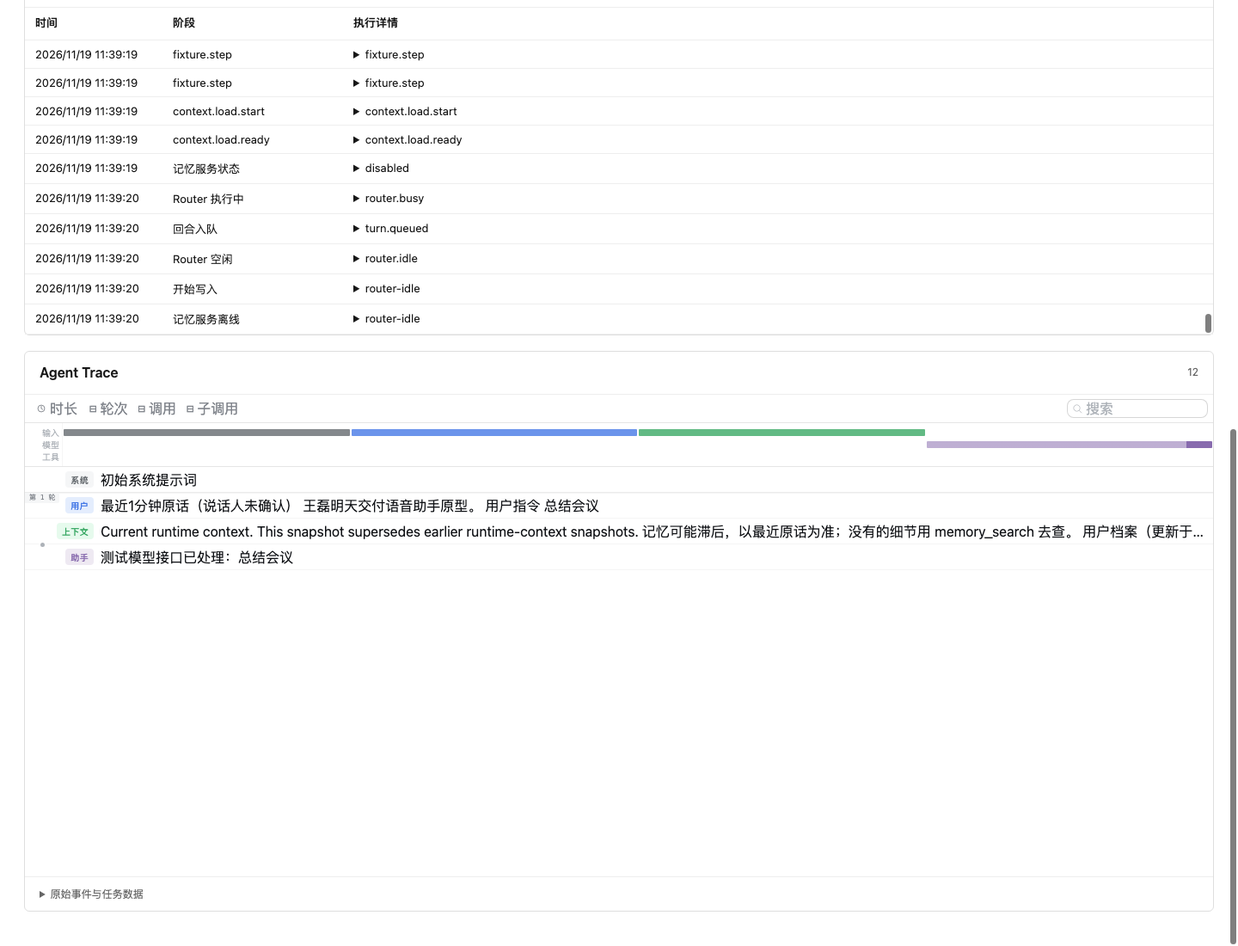
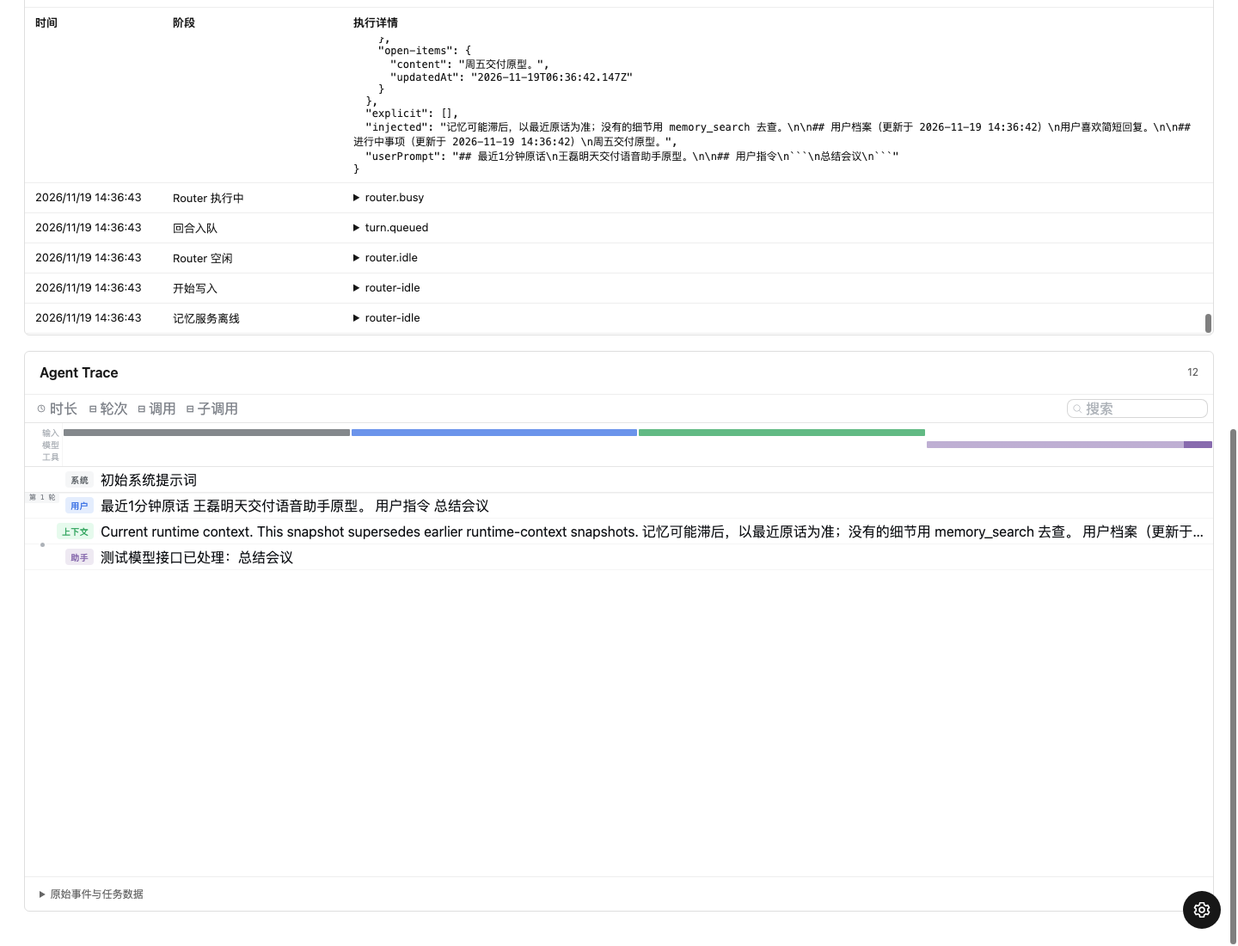
把设置收进右下角，并记下 Context 实际读写的正文。
LLM、Embedding、火山和声纹从交互区挪进设置；声纹列表认火山返回的 SpeakID。Context 轨迹保存注入与写入原文，面板先隐藏。

diff --git a/web/index.html b/web/index.html
@@ -13,28 +13,83 @@
   <script src="dsh-views.js" defer></script>
   <script src="audio-capture.js" defer></script>
   <script src="app.js" defer></script>
+  <script src="voiceprints.js" defer></script>
 </head>
 <body>
   <main class="workspace">
     <div id="notice" class="notice" role="status" aria-live="polite" hidden></div>
     <dialog id="model-settings" class="settings-dialog" aria-labelledby="settings-title">
       <header class="settings-header"><h2 id="settings-title">设置</h2><button id="close-settings" class="text-button" type="button" aria-label="关闭设置">关闭</button></header>
-      <div class="settings-section-title"><h3>模型配置</h3><span id="config-status" class="muted">未配置</span></div>
-      <p class="protocol-note">协议：Responses API · POST /responses</p>
-      <form id="model-form" class="settings-body">
-        <fieldset><legend>Router</legend><div class="config-grid">
-          <label>Base URL<input id="router-base-url" type="url" placeholder="http://127.0.0.1:8000/v1" required></label>
-          <label>模型名称<input id="router-model" type="text" placeholder="模型 ID" required></label>
-          <label>API Key<input id="router-api-key" type="password" autocomplete="new-password" placeholder="无密钥可留空"></label>
-        </div></fieldset>
-        <div class="submit-row"><span class="field-help">密钥不会回填；留空保留已有密钥。保存配置不代表连接已验证。</span><button id="save-model" class="secondary-button" type="submit">保存配置</button></div>
-        <p id="config-feedback" class="field-help" role="status"></p>
-      </form>
+      <nav class="settings-nav" aria-label="设置分类">
+        <button type="button" data-settings-panel="llm" aria-current="true">LLM</button>
+        <button type="button" data-settings-panel="embedding">Embedding</button>
+        <button type="button" data-settings-panel="volcano">火山</button>
+        <button type="button" data-settings-panel="voiceprint">声纹</button>
+      </nav>
+      <section id="settings-llm">
+        <div class="settings-section-title"><h3>LLM</h3><span id="config-status" class="muted">未配置</span></div>
+        <p class="protocol-note">协议：Responses API · POST /responses</p>
+        <form id="model-form" class="settings-body">
+          <fieldset><legend>对话模型</legend><div class="config-grid">
+            <label>Base URL<input id="router-base-url" type="url" placeholder="http://127.0.0.1:8000/v1" required></label>
+            <label>模型名称<input id="router-model" type="text" placeholder="模型 ID" required></label>
+            <label>API Key<input id="router-api-key" type="password" autocomplete="new-password" placeholder="无密钥可留空"></label>
+          </div></fieldset>
+          <div class="submit-row"><span class="field-help">密钥不会回填；留空保留已有密钥。保存配置不代表连接已验证。</span><button id="save-model" class="secondary-button" type="submit">保存配置</button></div>
+          <p id="config-feedback" class="field-help" role="status"></p>
+        </form>
+        <div class="settings-section-title"><h3>记忆模型</h3></div>
+        <dl class="settings-facts">
+          <div><dt>模型</dt><dd id="memory-model">—</dd></div>
+          <div><dt>地址</dt><dd id="memory-url">—</dd></div>
+        </dl>
+        <p class="protocol-note">记忆模型写在 .env，修改后需要重启。</p>
+      </section>
+      <section id="settings-embedding" hidden>
+        <div class="settings-section-title"><h3>Embedding</h3></div>
+        <dl class="settings-facts">
+          <div><dt>方式</dt><dd id="embedding-mode">—</dd></div>
+          <div><dt>模型</dt><dd id="embedding-model">—</dd></div>
+          <div><dt>地址</dt><dd id="embedding-url">—</dd></div>
+        </dl>
+        <p class="protocol-note">Embedding 写在 .env，修改后需要重启。密钥只显示是否已填写。</p>
+      </section>
+      <section id="settings-volcano" hidden>
+        <div class="settings-section-title"><h3>火山</h3></div>
+        <dl class="settings-facts">
+          <div><dt>状态</dt><dd id="volcano-status">—</dd></div>
+          <div><dt>资源</dt><dd id="volcano-resource">—</dd></div>
+          <div><dt>地址</dt><dd id="volcano-endpoint">—</dd></div>
+          <div><dt>说话人分离</dt><dd>开启</dd></div>
+        </dl>
+        <p class="protocol-note">火山语音写在 .env，修改后需要重启。密钥不会显示在这里。</p>
+      </section>
+      <section id="settings-voiceprint" hidden>
+        <div class="settings-section-title"><h3>声纹</h3><span id="voiceprint-count" class="muted">0 / 50</span></div>
+        <p id="voiceprint-status" class="protocol-note" role="status"></p>
+        <div class="settings-body">
+          <ul id="voiceprint-list" class="voiceprint-list"></ul>
+          <form id="voiceprint-form" class="voiceprint-form">
+            <label>名称<input id="voiceprint-name" type="text" maxlength="32" required placeholder="例如：张三"></label>
+            <div id="voiceprint-local" class="field-help" hidden>当前是本机访问。请填写一条火山引擎能够下载的公网音频 URL，时长 5–30 秒，wav、pcm 或 mp3。</div>
+            <div id="voiceprint-capture">
+              <div class="voiceprint-actions">
+                <button id="voiceprint-record" type="button">开始录音</button>
+                <label class="file-button">上传音频<input id="voiceprint-file" type="file" accept=".wav,.pcm,.mp3,audio/wav,audio/mpeg,audio/mp3" hidden></label>
+                <span id="voiceprint-clock" class="muted">未录音</span>
+              </div>
+              <p class="field-help">录音或上传 5–30 秒清晰人声。pcm 按 16 kHz、16-bit、单声道计算。</p>
+            </div>
+            <label>公网音频 URL<input id="voiceprint-url" type="url" placeholder="https://example.com/voice.wav"></label>
+            <button id="voiceprint-submit" class="primary-button" type="submit">注册</button>
+          </form>
+        </div>
+      </section>
     </dialog>
     <div class="lab-grid">
-      <section class="panel output-panel" aria-label="输出"><div class="screen"><div class="panel-heading output-status system-bar"><time id="output-date" class="output-date">--/-- 周-</time><span class="system-right"><time id="output-title" class="output-clock">--:--</time><span class="output-battery" title="电量（模拟）"><svg class="battery-icon" viewBox="0 0 28 14" aria-hidden="true" focusable="false"><rect x="0.75" y="0.75" width="22.5" height="12.5" rx="2" fill="none" stroke="currentColor" stroke-width="1.5"/><path d="M24.2 4.2h1.6a1 1 0 0 1 1 1v3.6a1 1 0 0 1-1 1h-1.6z" fill="currentColor"/><rect x="2.4" y="2.5" width="13.2" height="9" rx="1" fill="currentColor"/></svg></span></span></div><div id="output-stage" class="output-stage"><div class="content-row"><div class="main-column"><div id="agent-panel" class="agent-panel" aria-label="agent panel" aria-hidden="true"><div id="interaction-window" class="interaction-window" aria-live="polite"><p class="agent-label">Agent</p><div id="output-text" class="output-text"></div></div></div><div id="main-panel" class="main-panel" aria-label="main panel"><div id="main-text" class="output-text main-text"></div></div></div><div id="function-panel" class="function-panel" aria-label="function panel" aria-hidden="true"><div id="function-window" class="interaction-window" aria-live="polite"><section id="speaker-card" class="speaker-card" aria-labelledby="speaker-card-title" hidden><h3 id="speaker-card-title">—</h3><div class="speaker-role"><dt>身份</dt><dd id="speaker-identity">—</dd></div><div class="speaker-notes-block"><p class="speaker-notes-label">信息</p><div id="speaker-notes">—</div></div></section></div></div></div></div><footer class="guide-panel" aria-label="guide panel"><span class="guide-key">头部</span><span class="guide-hint">左歪关闭 · 右歪展开</span></footer></div></section>
+      <section class="panel output-panel" aria-label="输出"><div class="screen"><div class="panel-heading output-status system-bar"><time id="output-date" class="output-date">--/-- 周-</time><span class="system-right"><time id="output-title" class="output-clock">--:--</time><span class="output-battery" title="电量（模拟）"><svg class="battery-icon" viewBox="0 0 36 18" aria-hidden="true" focusable="false"><rect x="0.75" y="0.75" width="30.5" height="16.5" rx="2.5" fill="none" stroke="currentColor" stroke-width="1.5"/><path d="M32.2 5.2h1.7a1.2 1.2 0 0 1 1.2 1.2v5a1.2 1.2 0 0 1-1.2 1.2h-1.7z" fill="currentColor"/><rect class="battery-bar" x="3" y="3.1" width="5.4" height="11.8" rx="0.6" fill="currentColor"/><rect class="battery-bar" x="9.8" y="3.1" width="5.4" height="11.8" rx="0.6" fill="currentColor"/><rect class="battery-bar" x="16.6" y="3.1" width="5.4" height="11.8" rx="0.6" fill="currentColor"/><rect class="battery-bar" x="23.4" y="3.1" width="5.4" height="11.8" rx="0.6" fill="currentColor"/></svg></span></span></div><div id="output-stage" class="output-stage"><div class="content-row"><div class="main-column"><div id="agent-panel" class="agent-panel" aria-label="agent panel" aria-hidden="true"><div id="interaction-window" class="interaction-window" aria-live="polite"><p class="agent-label">Agent</p><div id="output-text" class="output-text"></div></div></div><div id="main-panel" class="main-panel" aria-label="main panel"><div id="main-text" class="output-text main-text"></div></div></div><div id="function-panel" class="function-panel" aria-label="function panel" aria-hidden="true"><div id="function-window" class="interaction-window" aria-live="polite"><section id="speaker-card" class="speaker-card" aria-labelledby="speaker-card-title" hidden><h3 id="speaker-card-title">社交卡片</h3><p id="speaker-name" class="speaker-name">—</p><div class="speaker-role"><dt>身份</dt><dd id="speaker-identity">—</dd></div><div class="speaker-notes-block"><p class="speaker-notes-label">信息</p><div id="speaker-notes">—</div></div></section></div></div></div></div><footer class="guide-panel" aria-label="guide panel"><span class="guide-key">头部</span><span class="guide-hint">左歪关闭 · 右歪展开</span></footer></div></section>
       <div class="side-stack">
-        <section class="panel control-panel" aria-labelledby="input-title"><div class="panel-heading control-heading"><h1 id="input-title">控制面板</h1><button id="audio-toggle" class="audio-toggle" type="button" aria-label="开启语音输入" aria-pressed="false" title="开启语音输入"><svg class="play-symbol" viewBox="0 0 24 24" aria-hidden="true" focusable="false"><path d="M8 5.5 18 12 8 18.5Z" fill="currentColor"/></svg><svg class="pause-symbol" viewBox="0 0 24 24" aria-hidden="true" focusable="false" hidden><path d="M7 5h3v14H7zm7 0h3v14h-3z" fill="currentColor"/></svg></button></div><div class="panel-body control-actions"><form id="submit-form" novalidate><button id="submit-button" class="primary-button" type="submit" aria-label="右键" disabled>右键</button></form><button id="open-agent" class="esc-button" type="button" aria-label="打开 agent 面板" disabled>打开 agent 面板</button><button id="open-function" class="esc-button" type="button" aria-label="打开功能面板" disabled>打开功能面板</button><button id="close-agent" class="esc-button" type="button" aria-label="关闭 agent panel" disabled>关闭 agent panel</button><button id="esc-button" class="esc-button" type="button" aria-label="关闭功能面板" disabled>关闭功能面板</button><button id="voiceprints-link" class="esc-button" type="button">声纹</button></div></section>
+        <section class="panel control-panel" aria-labelledby="input-title"><div class="panel-heading control-heading"><h1 id="input-title">控制面板</h1><button id="audio-toggle" class="audio-toggle" type="button" aria-label="开启语音输入" aria-pressed="false" title="开启语音输入"><svg class="play-symbol" viewBox="0 0 24 24" aria-hidden="true" focusable="false"><path d="M8 5.5 18 12 8 18.5Z" fill="currentColor"/></svg><svg class="pause-symbol" viewBox="0 0 24 24" aria-hidden="true" focusable="false" hidden><path d="M7 5h3v14H7zm7 0h3v14h-3z" fill="currentColor"/></svg></button></div><div class="panel-body control-actions"><form id="submit-form" novalidate><button id="submit-button" class="primary-button" type="submit" aria-label="右键" disabled>右键</button></form><button id="open-agent" class="esc-button" type="button" aria-label="打开 agent 面板" disabled>打开 agent 面板</button><button id="open-function" class="esc-button" type="button" aria-label="打开功能面板" disabled>打开功能面板</button><button id="close-agent" class="esc-button" type="button" aria-label="关闭 agent panel" disabled>关闭 agent panel</button><button id="esc-button" class="esc-button" type="button" aria-label="关闭功能面板" disabled>关闭功能面板</button></div></section>
         <section class="panel stream-panel" aria-labelledby="inform-stream-title"><div class="panel-heading"><h2 id="inform-stream-title">信息流</h2></div><div class="inform-stream"><textarea id="inform_stream" rows="2" readonly placeholder="语音识别会显示在这里" aria-labelledby="inform-stream-title"></textarea></div></section>
         <section class="panel router-panel" aria-labelledby="agent-title"><div class="panel-heading"><h2 id="agent-title">Router</h2><span id="agent-status" class="badge">等待输入</span></div><div id="agent-conversation" class="dsh-view"></div><p id="views-error" class="view-error" role="alert" hidden></p></section>
       </div>
@@ -47,5 +102,6 @@
       <section class="panel trace-panel" aria-labelledby="trace-title"><div class="panel-heading"><h2 id="trace-title">Agent Trace</h2><span id="trace-count" class="count">0</span></div><div id="trajectory-view" class="dsh-view"></div><details class="raw-events"><summary>原始事件与任务数据</summary><pre id="raw-events">[]</pre></details></section>
     </div>
   </main>
+  <button id="open-settings" class="settings-launcher" type="button" aria-label="设置" title="设置"><svg viewBox="0 0 24 24" aria-hidden="true" focusable="false"><path fill="none" stroke="currentColor" stroke-width="1.8" stroke-linejoin="round" d="M12 15.2a3.2 3.2 0 1 0 0-6.4 3.2 3.2 0 0 0 0 6.4Z"/><path fill="none" stroke="currentColor" stroke-width="1.8" stroke-linejoin="round" d="M19.4 13.2a7.8 7.8 0 0 0 .06-1.2 7.8 7.8 0 0 0-.06-1.2l1.9-1.5-1.9-3.3-2.3.9a7.7 7.7 0 0 0-2.1-1.2L14.6 3h-5.2l-.4 2.7a7.7 7.7 0 0 0-2.1 1.2l-2.3-.9-1.9 3.3 1.9 1.5a7.8 7.8 0 0 0 0 2.4l-1.9 1.5 1.9 3.3 2.3-.9a7.7 7.7 0 0 0 2.1 1.2l.4 2.7h5.2l.4-2.7a7.7 7.7 0 0 0 2.1-1.2l2.3.9 1.9-3.3-1.9-1.5Z"/></svg></button>
 </body>
 </html>

diff --git a/web/styles.css b/web/styles.css
@@ -19,7 +19,7 @@ pre,code { font-family:"SFMono-Regular",Consolas,monospace; }
 .side-stack > .panel { min-width:0; min-height:0; display:flex; flex-direction:column; overflow:hidden; }
 .side-stack > .control-panel { min-height:auto; height:auto; overflow:visible; }
 .side-stack .panel-heading { position:sticky; top:0; z-index:1; background:#ffffff; }
-.context-row { margin-top:18px; }
+.context-row { display:none; margin-top:18px; }
 .detail-grid { display:grid; grid-template-columns:minmax(0,1fr); gap:18px; align-items:stretch; margin-top:18px; }
 .panel { min-width:0; background:#ffffff; border:1px solid var(--line); border-radius:6px; }
 .panel-heading { min-height:49px; padding:12px 17px; display:flex; align-items:center; justify-content:space-between; gap:12px; border-bottom:1px solid #eeeeee; }
@@ -72,54 +72,51 @@ textarea[readonly] { background:#f5f5f5; color:#333333; cursor:default; }
 .context-trace-view th:nth-child(2) { width:210px; }
 .context-trace-view details summary { cursor:pointer; }
 .context-trace-view pre { margin:6px 0 0; white-space:pre-wrap; overflow-wrap:anywhere; font-size:12px; }
+.context-trace-view .context-trace-content { padding:9px 11px; border-left:2px solid #777777; background:#f6f6f6; font-size:13px; line-height:1.6; }
 .context-trace-empty { padding:16px; color:var(--muted); }
 .output-panel { --waveguide-green:#54ff83; width:640px; max-width:100%; height:480px; min-height:0; display:flex; flex-direction:column; overflow:hidden; background:#07100b; border-color:#243c2c; color:var(--waveguide-green); }
 .screen { height:100%; min-height:0; display:flex; flex-direction:column; }
 .system-bar { width:100%; }
 .system-right { display:inline-flex; align-items:center; gap:12px; }
-.output-date { font-variant-numeric:tabular-nums; }
-.output-panel .panel-heading { flex-shrink:0; border-bottom:0; }
+.output-date { font-size:16px; font-weight:500; font-variant-numeric:tabular-nums; }
+.output-panel .panel-heading { flex-shrink:0; border-bottom:0; min-height:0; padding:16px 16px 0; }
 .output-status { color:var(--waveguide-green); font-size:16px; font-weight:500; line-height:1; letter-spacing:.04em; }
-.output-clock { font-variant-numeric:tabular-nums; }
+.output-clock { font-size:20px; font-weight:600; line-height:1; letter-spacing:0; font-variant-numeric:tabular-nums; }
 .output-battery { display:inline-flex; align-items:center; line-height:0; }
-.battery-icon { display:block; width:2cap; height:1cap; }
-.output-panel .badge { color:#8bc99c; }
-.output-stage { position:relative; flex:1; min-height:0; overflow:hidden; background:#07100b; display:flex; }
-.content-row { flex:1; min-width:0; min-height:0; display:flex; }
+.battery-icon { display:block; width:36px; height:18px; }
+.output-stage { position:relative; flex:1; min-height:0; overflow:hidden; background:#07100b; display:flex; flex-direction:column; padding:12px 16px 0; }
+.content-row { flex:1; min-width:0; min-height:0; display:flex; align-items:stretch; }
 .main-column { flex:1; min-width:0; min-height:0; display:flex; flex-direction:column; }
-.agent-panel { flex:0 0 auto; max-height:0; min-width:0; overflow:hidden; display:flex; flex-direction:column; transition:max-height 240ms ease; }
-.output-stage.is-agent .agent-panel { max-height:160px; }
-.agent-panel .interaction-window { flex:0 1 auto; max-height:144px; overflow:auto; }
+.agent-panel { flex:0 0 auto; min-width:0; display:flex; flex-direction:column; }
+.agent-panel[aria-hidden="true"] { display:none; }
+.agent-panel .interaction-window { flex:0 1 auto; margin:0; padding:10px 12px; overflow:auto; border:1px solid var(--waveguide-green); border-radius:10px; }
 .agent-label { margin:0 0 6px; font-size:16px; font-weight:600; line-height:1.2; }
-.main-panel { flex:1; min-height:0; overflow:auto; }
-.function-panel { flex:0 0 0px; width:0; min-height:0; display:flex; flex-direction:column; overflow:hidden; background:#07100b; border-left:0 solid #243c2c; transition:flex-basis 240ms ease,width 240ms ease; }
-.output-stage.is-function .function-panel { flex-basis:200px; width:200px; border-left-width:1px; }
-.guide-panel { flex:none; display:flex; align-items:center; gap:12px; margin:8px 16px 12px; padding:8px 12px; border:1px solid var(--waveguide-green); border-radius:8px; font-size:16px; line-height:1.2; }
+.main-panel { flex:1; min-height:0; overflow:auto; padding:12px 0 0; }
+.function-panel { flex:0 0 0px; width:0; min-width:0; min-height:0; margin-left:0; display:flex; flex-direction:column; overflow:hidden; background:#07100b; transition:flex-basis 240ms ease,width 240ms ease,margin-left 240ms ease; }
+.output-stage.is-function .function-panel { flex-basis:min(240px,42%); width:min(240px,42%); margin-left:12px; }
+.guide-panel { flex:none; display:flex; align-items:center; gap:12px; margin:12px 16px 16px; padding:8px 12px; border:1px solid var(--waveguide-green); border-radius:10px; font-size:16px; line-height:1.2; }
 .guide-key { flex:none; padding:4px 10px; border:1px solid var(--waveguide-green); border-radius:6px; }
 .interaction-window { flex:1; min-height:0; overflow-y:auto; overflow-x:hidden; scrollbar-gutter:stable; padding:0 22px 24px; background:#07100b; }
-.agent-panel .interaction-window { margin:8px 16px 0; padding:8px 12px; border:1px solid var(--waveguide-green); border-radius:8px; }
-.main-panel { padding:8px 16px 12px; }
-.output-text { display:flex; flex-direction:column; gap:12px; color:var(--waveguide-green); font-size:16px; font-weight:400; line-height:normal; white-space:pre-wrap; overflow-wrap:anywhere; text-shadow:0 0 2px rgba(84,255,131,.5),0 0 10px rgba(84,255,131,.2); }
-.output-turn { margin:0; text-shadow:inherit; }
-.output-turn-user { align-self:flex-end; width:fit-content; max-width:calc(100% - 3em); color:#8bc99c; text-align:right; }
+.function-panel .interaction-window { display:flex; flex-direction:column; margin:0; padding:10px 12px; overflow:auto; scrollbar-gutter:auto; border:1px solid var(--waveguide-green); border-radius:10px; }
+.output-text { display:flex; flex-direction:column; gap:12px; color:var(--waveguide-green); font-size:16px; font-weight:400; line-height:normal; white-space:pre-wrap; overflow-wrap:anywhere; }
+.output-turn { margin:0; }
+.output-turn-user { align-self:flex-end; width:fit-content; max-width:calc(100% - 3em); color:var(--waveguide-green); text-align:right; }
 .output-turn-assistant,.output-turn-status { display:flex; align-items:flex-start; gap:8px; color:var(--waveguide-green); text-align:left; }
 .output-avatar { flex:none; font-size:1em; line-height:normal; letter-spacing:0; }
-.output-turn-body { margin:0; min-width:0; text-shadow:inherit; }
-.function-panel.is-speaker { container-type:size; }
-.function-panel.is-speaker .interaction-window { display:flex; flex-direction:column; padding:6px 8px; overflow:hidden; scrollbar-gutter:auto; }
-.speaker-card { border:1px solid var(--waveguide-green); border-radius:6px; padding:8px 10px; color:var(--waveguide-green); display:flex; flex-direction:column; gap:4px; min-height:0; }
-.function-panel.is-speaker .speaker-card { flex:1 1 auto; }
+.output-turn-body { margin:0; min-width:0; font-weight:400; }
+.main-text { gap:2px; line-height:1.35; border-left:2px solid var(--waveguide-green); padding:2px 0 2px 10px; }
+.main-text:empty { border-left-color:transparent; padding-left:0; }
+.transcript-line { margin:0; font-weight:400; }
+.transcript-line.is-latest { font-weight:600; }
+.speaker-card { border:0; padding:0; color:var(--waveguide-green); display:flex; flex-direction:column; gap:8px; min-height:0; }
 .speaker-card h3 { margin:0; font-size:16px; font-weight:600; line-height:1.2; }
-.speaker-role { margin:0; display:flex; flex-wrap:wrap; align-items:baseline; gap:6px; font-size:16px; line-height:1.25; }
-.speaker-role dt { color:#8bc99c; font-weight:400; }
-.speaker-role dd { margin:0; min-width:0; }
+.speaker-name { margin:0; font-size:16px; font-weight:600; line-height:1.3; }
+.speaker-role { margin:0; display:flex; flex-direction:column; align-items:flex-start; gap:2px; font-size:16px; font-weight:400; line-height:1.3; }
+.speaker-role dt { font-weight:400; }
+.speaker-role dd { margin:0; min-width:0; font-weight:400; }
 .speaker-notes-block { display:grid; gap:2px; min-height:0; }
-.speaker-notes-label { margin:0; font-size:16px; line-height:1.2; color:#8bc99c; }
-.speaker-card ul { margin:0; padding-left:1.15em; display:grid; gap:1px; font-size:16px; line-height:1.25; }
-@container (max-width:240px) {
-  .speaker-card { padding:6px 8px; gap:3px; }
-  .speaker-card ul { gap:0; }
-}
+.speaker-notes-label { margin:0; font-size:16px; font-weight:400; line-height:1.3; }
+.speaker-card ul { margin:0; padding-left:0; list-style:none; display:grid; gap:2px; font-size:16px; font-weight:400; line-height:1.3; }
 .thinking { display:inline-flex; align-items:center; gap:7px; }
 .thinking::before { content:''; display:inline-block; flex:none; width:1em; height:1em; border:1.5px solid currentColor; border-right-color:transparent; border-radius:50%; text-shadow:none; animation:thinking-spin .8s linear infinite; }
 .output-text.thinking { flex-direction:row; align-items:center; }
@@ -134,7 +131,18 @@ textarea[readonly] { background:#f5f5f5; color:#333333; cursor:default; }
 .raw-events { border-top:1px solid #eeeeee; padding:11px 17px; color:var(--muted); font-size:12px; }
 .raw-events summary,.settings>summary { cursor:pointer; }
 .raw-events pre { max-height:280px; overflow:auto; font-size:11px; line-height:1.7; white-space:pre-wrap; overflow-wrap:anywhere; }
-.settings-dialog { width:min(860px,calc(100% - 32px)); max-height:calc(100dvh - 48px); margin:auto; padding:0; overflow:auto; border:1px solid var(--line); border-radius:7px; background:#ffffff; color:#171717; }
+.settings-launcher { position:fixed; right:max(20px,env(safe-area-inset-right)); bottom:max(20px,env(safe-area-inset-bottom)); z-index:30; display:inline-flex; align-items:center; justify-content:center; width:44px; height:44px; padding:0; border:0; border-radius:50%; background:#171717; color:#ffffff; }
+.settings-launcher:hover:not(:disabled) { background:#383838; }
+.settings-launcher svg { display:block; width:22px; height:22px; }
+.settings-dialog { width:min(860px,calc(100% - 32px)); max-height:calc(100dvh - 48px); margin:auto; padding:0 0 18px; overflow:auto; border:1px solid var(--line); border-radius:7px; background:#ffffff; color:#171717; }
+.settings-nav { display:flex; flex-wrap:wrap; gap:8px; padding:14px 18px 0; }
+.settings-nav button { min-height:44px; }
+.settings-nav button[aria-current="true"] { background:#171717; color:#ffffff; }
+.settings-facts { display:grid; gap:10px; margin:0; padding:8px 18px 0; }
+.settings-facts div { display:grid; grid-template-columns:88px minmax(0,1fr); gap:12px; align-items:baseline; }
+.settings-facts dt { color:var(--muted); font-size:12px; }
+.settings-facts dd { margin:0; overflow-wrap:anywhere; font-size:13px; }
+#settings-voiceprint .voiceprint-list { margin-bottom:18px; }
 .settings-dialog::backdrop { background:#00000066; }
 .settings-header { display:flex; align-items:center; justify-content:space-between; gap:16px; padding:14px 18px; border-bottom:1px solid var(--line); }
 .settings-section-title { display:flex; gap:12px; align-items:center; padding:18px 18px 0; }

diff --git a/web/app.js b/web/app.js
@@ -104,12 +104,18 @@
     const parts = String(text ?? '').split(/(?<=[。！？!?])\s*|\n+/u).map(part => part.trim()).filter(Boolean);
     return parts.at(-1) ?? '';
   }
+  function plainReply(text) {
+    return String(text ?? '').replace(/\*\*/g, '');
+  }
   function agentCard(value) {
-    const partial = value?.busy ? limitChars(value?.stream?.text ?? '') : '';
+    const partial = value?.busy ? limitChars(plainReply(value?.stream?.text ?? '')) : '';
     if (partial) return { text: partial, live: true };
     if (value?.busy) return { text: '正在处理指令', live: true };
     if (value?.lastError) return { text: '执行失败：' + value.lastError, live: false };
-    return { text: limitChars(latestRouterAnswer(value?.trace)), live: false };
+    return { text: limitChars(plainReply(latestRouterAnswer(value?.trace))), live: false };
+  }
+  function transcriptLines(text) {
+    return String(text ?? '').split('\n').map(line => line.trim()).filter(Boolean);
   }
   function commandPanel(value) {
     const capture = value?.sound2text?.capture;
@@ -159,10 +165,13 @@
     return ['积压 ' + context.outbox + ' 条', models, flush].filter(Boolean).join('｜');
   }
   function contextTraceSummary(entry) {
-    const labels = { 'speech.final': '语音定稿', 'speech.paused': '语音暂停', 'turn.queued': '回合入队', 'router.busy': 'Router 执行中', 'router.idle': 'Router 空闲', 'flush.start': '开始写入', 'flush.deferred': '等待 Router 空闲', 'flush.offline': '记忆服务离线', 'flush.sealed': '封装批次', 'flush.end': '写入结束', 'flush.failed': '写入失败', 'flush.retry': '安排重试', 'retain.submitted': '提交 Hindsight', 'retain.check': '检查写入状态', 'retain.status': '写入状态', 'retain.completed': '写入完成', 'cache.refresh.start': '开始刷新缓存', 'cache.model': '模型缓存更新', 'cache.model.failed': '模型缓存失败', 'cache.refresh.end': '缓存刷新完成', 'hindsight.status': '记忆服务状态', 'memory.search.start': '开始检索', 'memory.search.end': '检索完成', 'memory.search.failed': '检索失败', 'memory.search.unavailable': '检索不可用', 'memory.reflect.start': '开始回想', 'memory.reflect.end': '回想完成', 'memory.reflect.failed': '回想失败', 'memory.reflect.unavailable': '回想不可用' };
+    const labels = { 'memory.read': '读取并注入 Router', 'outbox.read': '读取待写批次', 'retain.request': '写入 Hindsight 请求', 'speech.final': '语音定稿', 'speech.paused': '语音暂停', 'turn.queued': '回合入队', 'router.busy': 'Router 执行中', 'router.idle': 'Router 空闲', 'flush.start': '开始写入', 'flush.deferred': '等待 Router 空闲', 'flush.offline': '记忆服务离线', 'flush.sealed': '封装批次', 'flush.end': '写入结束', 'flush.failed': '写入失败', 'flush.retry': '安排重试', 'retain.submitted': '提交 Hindsight', 'retain.check': '检查写入状态', 'retain.status': '写入状态', 'retain.completed': '写入完成', 'cache.refresh.start': '开始刷新缓存', 'cache.model': '模型缓存更新', 'cache.model.failed': '模型缓存失败', 'cache.refresh.end': '缓存刷新完成', 'hindsight.status': '记忆服务状态', 'memory.search.start': '开始检索', 'memory.search.end': '检索完成', 'memory.search.failed': '检索失败', 'memory.search.unavailable': '检索不可用', 'memory.reflect.start': '开始回想', 'memory.reflect.end': '回想完成', 'memory.reflect.failed': '回想失败', 'memory.reflect.unavailable': '回想不可用' };
     const data = entry?.data ?? {};
+    const content = entry?.type === 'memory.read' ? data.injected : data.content ?? data.text ?? data.answer;
+    const preview = typeof content === 'string' ? content.replace(/\s+/g, ' ').trim().slice(0, 180) : '';
     return { at: entry?.at ?? '', type: entry?.type ?? '', label: labels[entry?.type] || entry?.type || '未知事件',
-      detail: [data.documentId, data.id, data.reason, data.status, data.text, data.query, data.error].filter(Boolean).join(' · ') };
+      detail: [data.documentId, data.id, data.reason, data.status, preview || data.query, data.error].filter(Boolean).join(' · '),
+      content: typeof content === 'string' ? content : '', data };
   }
   const OPENINGS = ['已准备好做你的co-pilot！', '我在。想先做点什么？', '随时可以开始。', '今天想一起搞定什么？', '准备好了，把指令交给我。'];
   let openingIndex = 0;
@@ -197,7 +206,7 @@
     if (!audioState(value, localStatus).running) throw new Error('请先开启语音输入。');
     return { path: '/api/voice/interaction', body: {} };
   }
-  root.MootingUI = { captureFeedback, audioState, interactionRequest, submission, validateState, validateConfig, modelSubmission, latestRouterAnswer, routerDialogue, outputContent, functionPanel, mainCaption, lastSentence, agentCard, commandPanel, contextPanel, memoryInfo, contextTraceSummary };
+  root.MootingUI = { captureFeedback, audioState, interactionRequest, submission, validateState, validateConfig, modelSubmission, latestRouterAnswer, routerDialogue, outputContent, functionPanel, mainCaption, lastSentence, agentCard, transcriptLines, commandPanel, contextPanel, memoryInfo, contextTraceSummary };
   if (typeof document === 'undefined') return;
   openingIndex = Math.floor(Math.random() * OPENINGS.length);
   const $ = id => document.getElementById(id);
@@ -302,8 +311,15 @@
     const detail = document.createElement('td');
     const disclosure = document.createElement('details');
     const summary = document.createElement('summary'); summary.textContent = record.detail || record.type;
-    const raw = document.createElement('pre'); raw.textContent = JSON.stringify(entry.data ?? {}, null, 2);
-    disclosure.append(summary, raw); detail.append(disclosure);
+    const raw = document.createElement('pre'); raw.textContent = JSON.stringify(record.data, null, 2);
+    disclosure.append(summary);
+    if (record.content) {
+      const content = document.createElement('pre');
+      content.className = 'context-trace-content';
+      content.textContent = record.content;
+      disclosure.append(content);
+    }
+    disclosure.append(raw); detail.append(disclosure);
     row.append(when, stage, detail);
     return row;
   }
@@ -322,12 +338,22 @@
     $('context-trace-count').textContent = String(Math.max(state?.context?.traceCount ?? 0, contextTraceEntries.size));
   }
   let trajectoryPane = null;
+  function paintTranscript(text) {
+    const node = $('main-text');
+    const lines = transcriptLines(text);
+    node.replaceChildren(...lines.map((line, index) => {
+      const row = document.createElement('p');
+      row.className = 'transcript-line' + (index === lines.length - 1 ? ' is-latest' : '');
+      row.textContent = line;
+      return row;
+    }));
+  }
   function paintAgent(text, live) {
     const node = $('output-text');
     node.replaceChildren();
     const body = document.createElement('p');
     body.className = 'output-turn-body' + (live ? ' thinking' : '');
-    body.textContent = text;
+    body.textContent = plainReply(text);
     node.append(body);
     node.classList.remove('thinking');
   }
@@ -381,6 +407,7 @@
     $('context-status').title = memory.error;
     $('context-memory-info').textContent = memory.info;
     $('context-memory-info').hidden = !memory.info;
+    renderServiceSettings(state);
     renderContextTrace(state.context.trace);
     $('context-trace-count').textContent = String(Math.max(state.context.traceCount ?? 0, contextTraceEntries.size));
     const speakerActive = !!state.speaker?.active;
@@ -388,11 +415,12 @@
     $('output-stage').classList.toggle('is-function', !!fn.kind);
     $('function-panel').setAttribute('aria-hidden', String(!fn.kind));
     $('function-panel').classList.toggle('is-speaker', speakerActive);
-    $('main-text').textContent = mainCaption(state);
+    paintTranscript(mainCaption(state));
     renderAgent();
     $('speaker-card').hidden = !speakerActive;
     const person = state.speaker?.person;
-    $('speaker-card-title').textContent = person?.name ?? '正在识别…';
+    $('speaker-card-title').textContent = '社交卡片';
+    $('speaker-name').textContent = person?.name ?? '正在识别…';
     $('speaker-identity').textContent = person?.identity ?? '—';
     if (speakerActive) $('function-window').scrollTop = 0;
     renderSpeakerNotes(person?.notes);
@@ -445,7 +473,35 @@
       source.onerror = () => { if (current !== generation) return; fetch(api('/api/state')).then(response => { if (response.status === 401) location.assign(api('/login')); }); connected = false; notice('实时连接中断，正在重连；不会切换为模拟模型。', true); controls(); };
     } catch (error) { if (current === generation) { connected = false; notice(error.message, true); controls(); } }
   }
-  $('voiceprints-link').addEventListener('click', () => { location.assign(api('/voiceprints.html')); });
+  function showSettings(panel) {
+    for (const button of document.querySelectorAll('[data-settings-panel]')) {
+      const selected = button.dataset.settingsPanel === panel;
+      if (selected) button.setAttribute('aria-current', 'true');
+      else button.removeAttribute('aria-current');
+      document.getElementById(`settings-${button.dataset.settingsPanel}`).hidden = !selected;
+    }
+    const dialog = $('model-settings');
+    if (!dialog.open) dialog.showModal();
+    if (panel === 'voiceprint') document.dispatchEvent(new Event('voiceprints-refresh'));
+  }
+  function settingText(id, text) { $(id).textContent = text || '—'; }
+  function renderServiceSettings(value) {
+    const embedding = value.context?.embedding;
+    const memory = value.context?.memoryModel;
+    settingText('embedding-mode', embedding?.configured ? embedding.mode : '未配置');
+    settingText('embedding-model', embedding?.model);
+    settingText('embedding-url', embedding?.mode === '本地' ? '本机模型' : embedding?.baseURL);
+    settingText('memory-model', memory?.configured ? memory.model : '未配置');
+    settingText('memory-url', memory?.baseURL);
+    settingText('volcano-status', value.sound2text?.configured ? '已配置' : '未配置');
+    settingText('volcano-resource', value.sound2text?.resourceId);
+    settingText('volcano-endpoint', value.sound2text?.endpoint);
+  }
+  $('open-settings').addEventListener('click', () => showSettings('llm'));
+  document.querySelector('.settings-nav').addEventListener('click', event => {
+    const button = event.target.closest('[data-settings-panel]');
+    if (button) showSettings(button.dataset.settingsPanel);
+  });
   $('close-settings').addEventListener('click', () => $('model-settings').close());
   $('model-form').addEventListener('input', () => { formDirty = true; });
   $('model-form').addEventListener('submit', async event => {

diff --git a/web/voiceprints.js b/web/voiceprints.js
@@ -188,5 +188,6 @@
       await load();
     } catch (error) { status(error.message, true); }
   });
+  document.addEventListener('voiceprints-refresh', () => { load().catch(error => status(error.message, true)); });
   load().catch(error => status(error.message, true));
 }(window));

diff --git a/README.md b/README.md
@@ -104,7 +104,7 @@ Python 不读取 macOS 系统代理；需要代理下载模型时，设置 `MOOT
 - **每轮输入**：不发网络请求、不调模型，只读内存。最近 **1 分钟内全部定稿原话** 按顺序写进 Router 的 user prompt；按钮收束得到的 command 放在独立「用户指令」节，旧原话不能作为额外授权。旧版不经采集按钮的语音交互会把最近一分钟原话交给 Router，要求它提取最后一个明确、完整的 command；没有指令时不调用工具。长期记忆的用户档案（500 字）、进行中事项（500 字）、相关人物（按姓名和别名命中指令与最近原话，最多 3 人，每人 150 字）仍经 system prompt 注入，不重复塞入原话。三份 mental model（`user-profile`、`people`、`open-items`）每 60 秒拉取一次，存入 `data/memory-cache.json`。面板的「最近原话」只显示最近一分钟内的定稿。
 - **Router 工具（只读）**：`memory_search` 同步召回，3 秒超时返回空结果；`memory_reflect` 在 Worker 后台综合回答，60 秒超时，完成后唤醒 Router 回报。Router 没有写记忆的工具。
 
-Context 面板显示服务状态、outbox 积压、三份 mental model 的更新时间和上次写入结果。独立的 Context System Trace 记录定稿、Router 忙闲、封批、Hindsight 提交及操作状态、缓存刷新、检索与回想、失败和重试；事件持久化在权限受限的 `data/context-trace.jsonl`，页面通过受登录保护的 `/api/context/trace` 读取完整历史，实时状态流只带最近 200 条。它记录本应用 Context 的调用边界，不是 Hindsight Python 守护进程内部逐 token 日志。Agent Trace 保持 DSH 原有的 Router/工具轨迹。会话日志保留历次记忆快照用于追溯；发送给模型时仅投影最新的 `mooting-memory` 快照，避免旧记忆反复累加和被纠正的缓存继续出现。删除最后一条记忆也会生成替换快照，声明旧快照失效。
+Context 面板显示服务状态、outbox 积压、三份 mental model 的更新时间和上次写入结果。独立的 Context System Trace 记录每轮从缓存读取的档案/事项/人物、最近一分钟原话、实际注入 Router 的文本与 user prompt；写入侧记录定稿/回合原文、待写批次、向 Hindsight 发送的完整正文和返回结果，以及后续 operation 状态、缓存刷新、检索与回想、失败和重试。列表直接显示正文摘要，展开可看全文及原始字段。轨迹含私人对话原文，持久化在权限受限的 `data/context-trace.jsonl`，页面通过受登录保护的 `/api/context/trace` 读取完整历史，实时状态流只带最近 200 条；旧版运行期间没有记录正文的事件不能补出正文。它记录本应用 Context 的调用边界，不是 Hindsight Python 守护进程内部逐 token 日志。Agent Trace 保持 DSH 原有的 Router/工具轨迹。会话日志保留历次记忆快照用于追溯；发送给模型时仅投影最新的 `mooting-memory` 快照，避免旧记忆反复累加和被纠正的缓存继续出现。删除最后一条记忆也会生成替换快照，声明旧快照失效。
 
 ## 交互
 

diff --git a/mooting-agent-目录与文件说明.md b/mooting-agent-目录与文件说明.md
@@ -73,7 +73,7 @@ MootingAgent 是一个单 Session 原型：复用 DSH 的 Cordis、Agent、Agent
 
 | 运行路径 | 作用 |
 |---|---|
-| `data/context-trace.jsonl` | Context 本地执行事件的完整历史：定稿、忙闲、批次、Hindsight 操作状态、缓存、检索与回想；访问走鉴权 API，SSE 只带最近 200 条。 |
+| `data/context-trace.jsonl` | Context 本地执行事件完整历史，包含每轮读取的缓存、实际注入文本、user prompt、Hindsight 写入正文和结果等私人内容；访问走鉴权 API，SSE 只带最近 200 条。 |
 | `data/fragments.jsonl` | ASR 定稿原话立即追加到磁盘；RAM 环形缓冲供最近原话读取。 |
 | `data/hindsight-outbox.jsonl` | 待写和已提交但未完成的批次、稳定 operation ID；收到异步受理响应后仍保留，确认 `completed` 后才移除。重启后继续确认或重试。 |
 | `data/memory-cache.json` | 用户档案、人物关系表、进行中事项，每 60 秒拉取；也持久化显式记忆和待执行墓碑，离线删除在服务恢复后先于 retain 重放。 |
